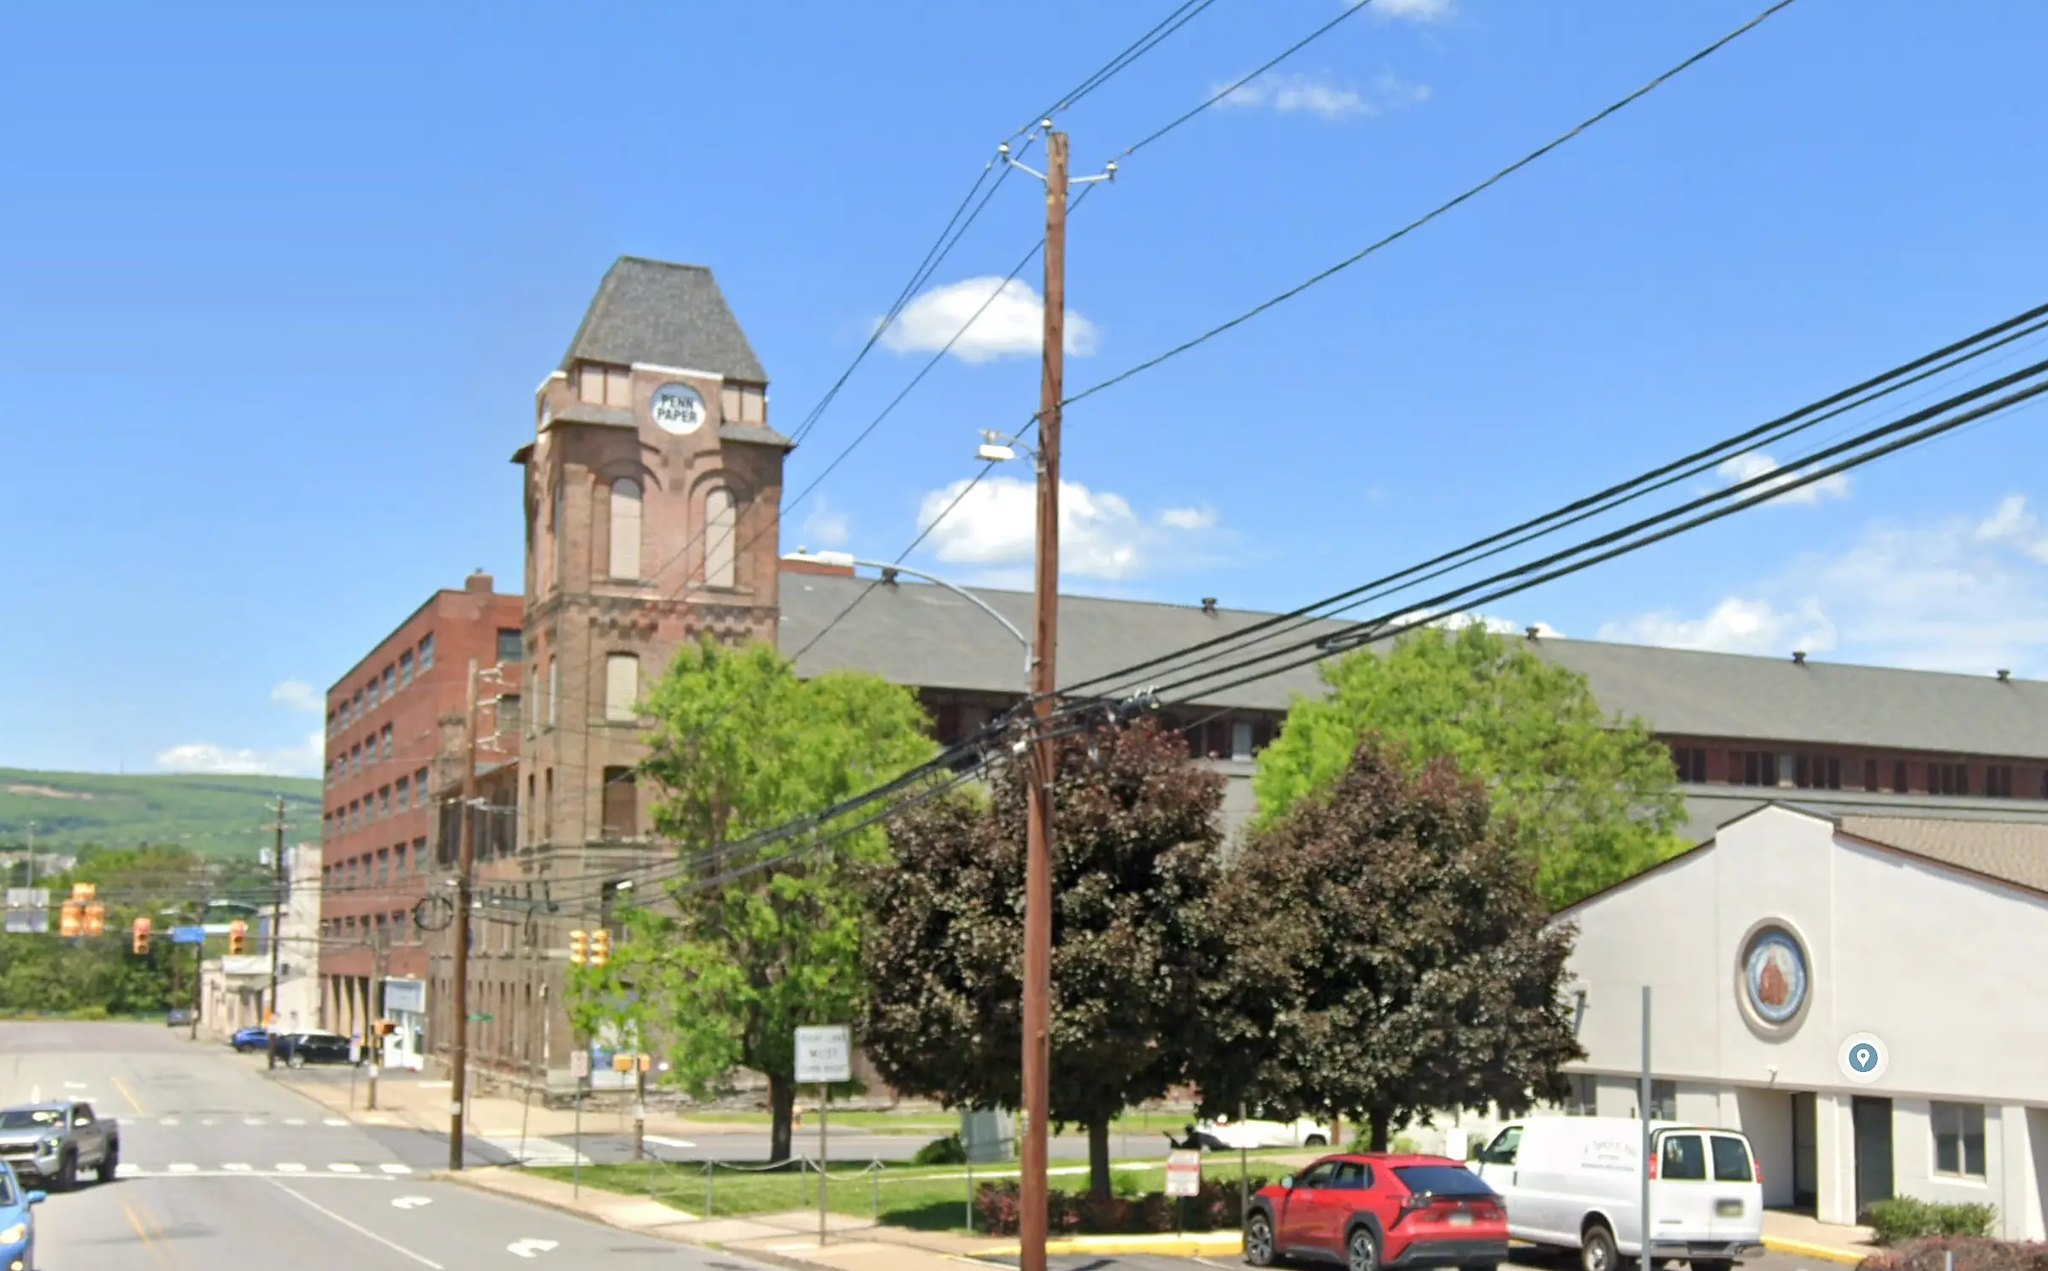
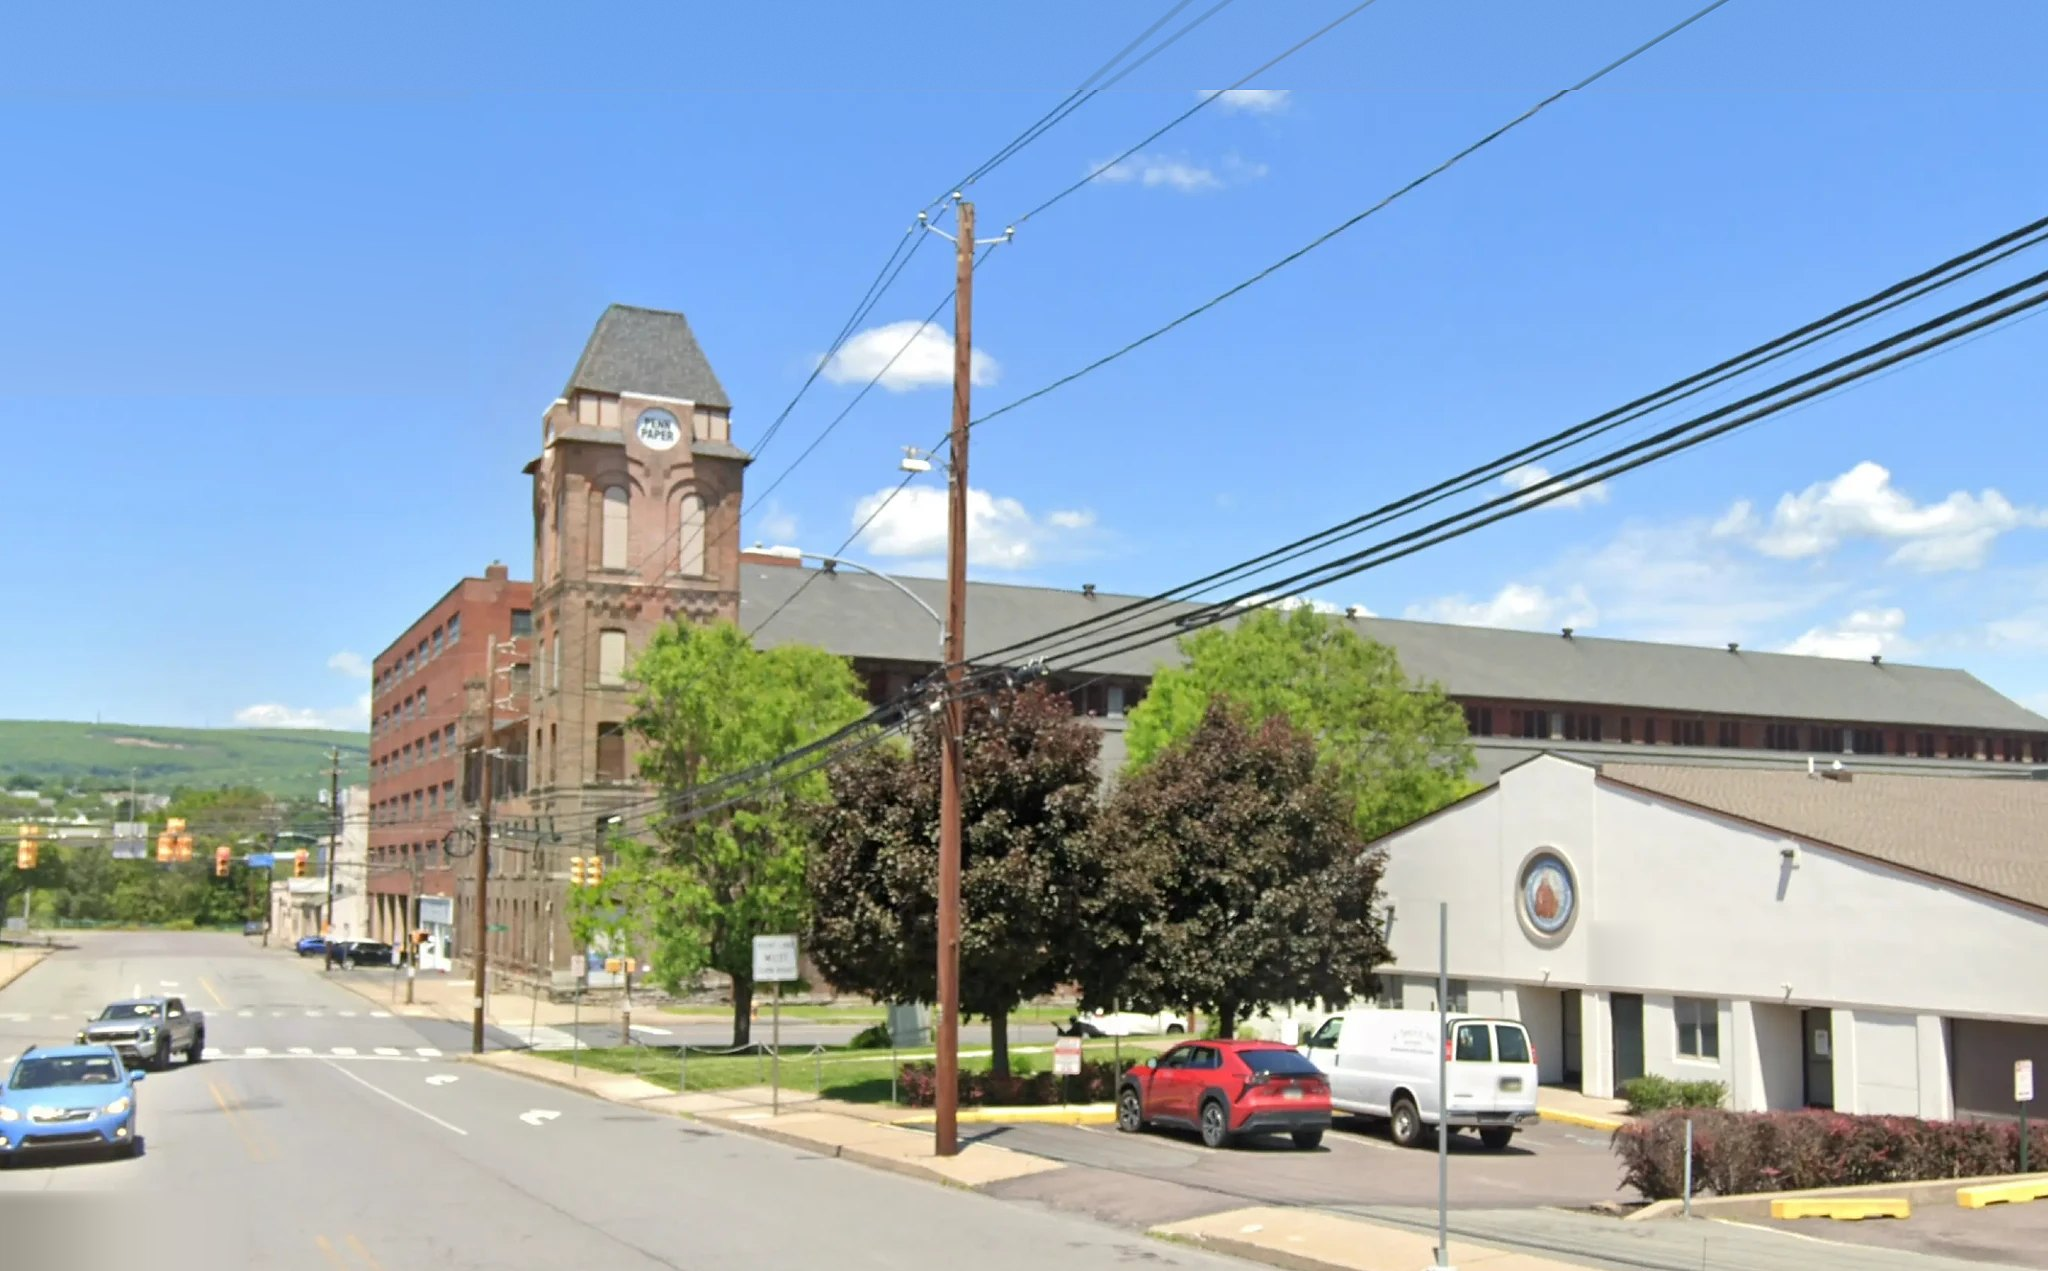
Rebuild the Dickson 'now' plate from the newly aligned frame
The new frame is aligned into the photograph's own 2048x1574 coordinates with
the uncovered strips left transparent, which is a much better handoff than a
screenshot to be scaled: the crop window is identical for both plates, so
then.jpg does not move and is untouched here. It also registers better than the
version fitted by hand -- the PENN PAPER sign now sits on the circle where the
clock face was, where the previous plate showed visible doubling.

Same window as before, (0,168)-(2048,1439). That keeps the full spire, which is
the point of the pair. Two consequences follow from it and are accepted rather
than worked around:

- The modern data starts at row 258, so the top 90 rows (7% of the plate) have
  no pixels and are reconstructed as sky. Four overhead wires cross that join;
  they are measured below the seam and continued as straight lines, because
  left alone they stop dead along a ruler-straight edge, which is the most
  obvious tell there is. Nothing structural is invented, and the page says the
  band is reconstructed.
- The Google watermark sits below the crop, as before. Including it needs the
  window at y>=269, which slices the weathervane off the spire. The page credit
  carries the attribution instead.

No street was reconstructed: the bottom band of transparency falls outside this
crop entirely, so the ground in the plate is all real pixels. Kerbs, markings
and parked cars cannot be extrapolated honestly and were never going to be.
[…]

diff --git a/pairs/dickson-manufacturing.html b/pairs/dickson-manufacturing.html
@@ -57,7 +57,7 @@
   <div class="credits">
     <p><b>Then</b>Photograph, the Dickson Manufacturing Company works, Penn Avenue at Vine Street. Undated; the company was absorbed by American Locomotive in 1901, which places it in the 1890s.</p>
     <p><b>Now</b>Google Street View, captured May&nbsp;2026. Imagery &copy;&nbsp;Google.</p>
-    <p><b>On the fit</b>A straight crop and a uniform scale &mdash; the Street View frame reduced to 0.847 and cropped, with no perspective correction. The tower carries the pair, anchored on the left corner where the corbelled brick band meets it; the two tall arched windows and that band land together. As a check, the tower&rsquo;s outer edge against the sky, which was not used to fit anything, agrees within about 0.4% of the frame width. Nothing else in the frame is shared. The top of the tower &mdash; balcony, clock stage and spire &mdash; came down after the works closed, and the corner office block that fills the right of the photograph is gone, with a later warehouse and its parking lot on the ground it stood on.</p>
+    <p><b>On the fit</b>The Street View frame is aligned to the photograph&rsquo;s own frame rather than scaled to fit it, and it registers closely: the PENN&nbsp;PAPER sign sits on the circle where the clock face was, and the arched windows, the corbelled band beneath them and the dormers all land together. The modern capture does not reach as high as the photograph does, so the top seven per cent of the &ldquo;now&rdquo; plate &mdash; sky, and nothing else &mdash; is reconstructed, and the four overhead wires that cross the join were measured below it and carried on as straight lines rather than left to stop in mid-air. Google&rsquo;s search box, address panel, minimap corner and place marker have been patched out of the sky, road and wall they sat on. No structure is invented. What differs between the two halves is real: the top of the tower &mdash; balcony, clock stage and spire &mdash; came down after the works closed, and the corner office block that fills the right of the photograph is gone, with a later warehouse and its parking lot on the ground it stood on.</p>
   </div>
 
 </main>

diff --git a/docs/THEN-NOW-PLAYBOOK.md b/docs/THEN-NOW-PLAYBOOK.md
@@ -93,7 +93,7 @@ crop and the HTML. The point-picking stays manual — that's the part that needs
 | `providence-auditorium` | `pairs/providence-auditorium.html` | c. 1910 postcard | Street View | **perspective-corrected**; four building corners match |
 | `scranton-dry-goods` | `pairs/scranton-dry-goods.html` | 1920s glass plate | Street View | **perspective-corrected**; six points agree within 2% |
 | `wyoming-ave` | `pairs/wyoming-ave.html` | mid-century linen card | Street View | straight crop; churches match, background tower ~3% off |
-| `dickson-manufacturing` | `pairs/dickson-manufacturing.html` | c. 1895 photograph | Street View | straight crop, scaled 0.847 on the surviving tower; check point within 0.4% |
+| `dickson-manufacturing` | `pairs/dickson-manufacturing.html` | c. 1895 photograph | Street View | frame pre-aligned to the photograph; top 7% of the modern plate is reconstructed sky |
 | `lackawanna-ave-bridge` | `pairs/lackawanna-ave-bridge.html` | c. 1910 photograph | Street View | frames arrived pre-matched; crop only, no scaling; both halves upscaled 3.6x |
 
 **A full perspective correction is often too much.** `scranton-dry-goods`
@@ -206,6 +206,36 @@ very wide capture it can fall outside the aligned crop entirely, and nothing
 short of breaking the registration brings it back. Capture in a window whose
 proportions are closer to 2048x1271 and it survives the crop. Where it does
 not, the page credit carries the attribution instead.
+
+**When the modern frame does not cover the historical one.** Align the Street
+View shot into the historical image's own pixel frame and leave the uncovered
+strips transparent -- that is a far better handoff than a screenshot to be
+scaled, because the crop window is then identical for both plates and the
+historical half never has to move. `dickson-manufacturing` came in this way,
+2048x1574 with alpha, and registers better than the version fitted by hand.
+
+Where the modern capture falls short of the frame, reconstruct only what is
+safely reconstructible, and say on the page that you did:
+
+- **Sky extends well.** Fit a robust low-order surface to the clean sky, then
+  anchor it to the real pixels at the seam so the join is continuous. Estimate
+  that seam offset with outliers (clouds, wires) rejected and interpolated
+  across, or a cloud sitting under the seam smears upward as a bright smudge.
+- **Continue anything straight that crosses the seam.** Four overhead wires
+  crossed the top edge here; left alone they stop dead in mid-air along a
+  ruler-straight line, which is the single most obvious tell. Seed on each wire
+  at the seam, search that seed's own slope before tracking it (a wire will
+  otherwise lock onto a close neighbour with a different slope), then extend it.
+- **Patch enclosed UI with push-pull, not a fitted surface.** A polynomial fit
+  leaves a visible rectangle; boundary-driven interpolation is seamless by
+  construction. Two rules: the context must exclude every part of the thing you
+  are removing -- include the minimap body below the patch, or the eave shadow
+  under it, and the fill inherits it and goes dark -- and grain should be
+  synthesised to match amplitude rather than borrowed from a neighbouring patch,
+  which can ghost a road marking into the fill.
+- **Do not reconstruct ground.** Kerbs, markings and parked cars carry structure
+  that cannot be extrapolated honestly. Crop so the frame lands on real pixels
+  instead, or re-capture.
 
 Originals for each pair live in `sources/<slug>/`. See the repo README for the
 steps to add a new one.
